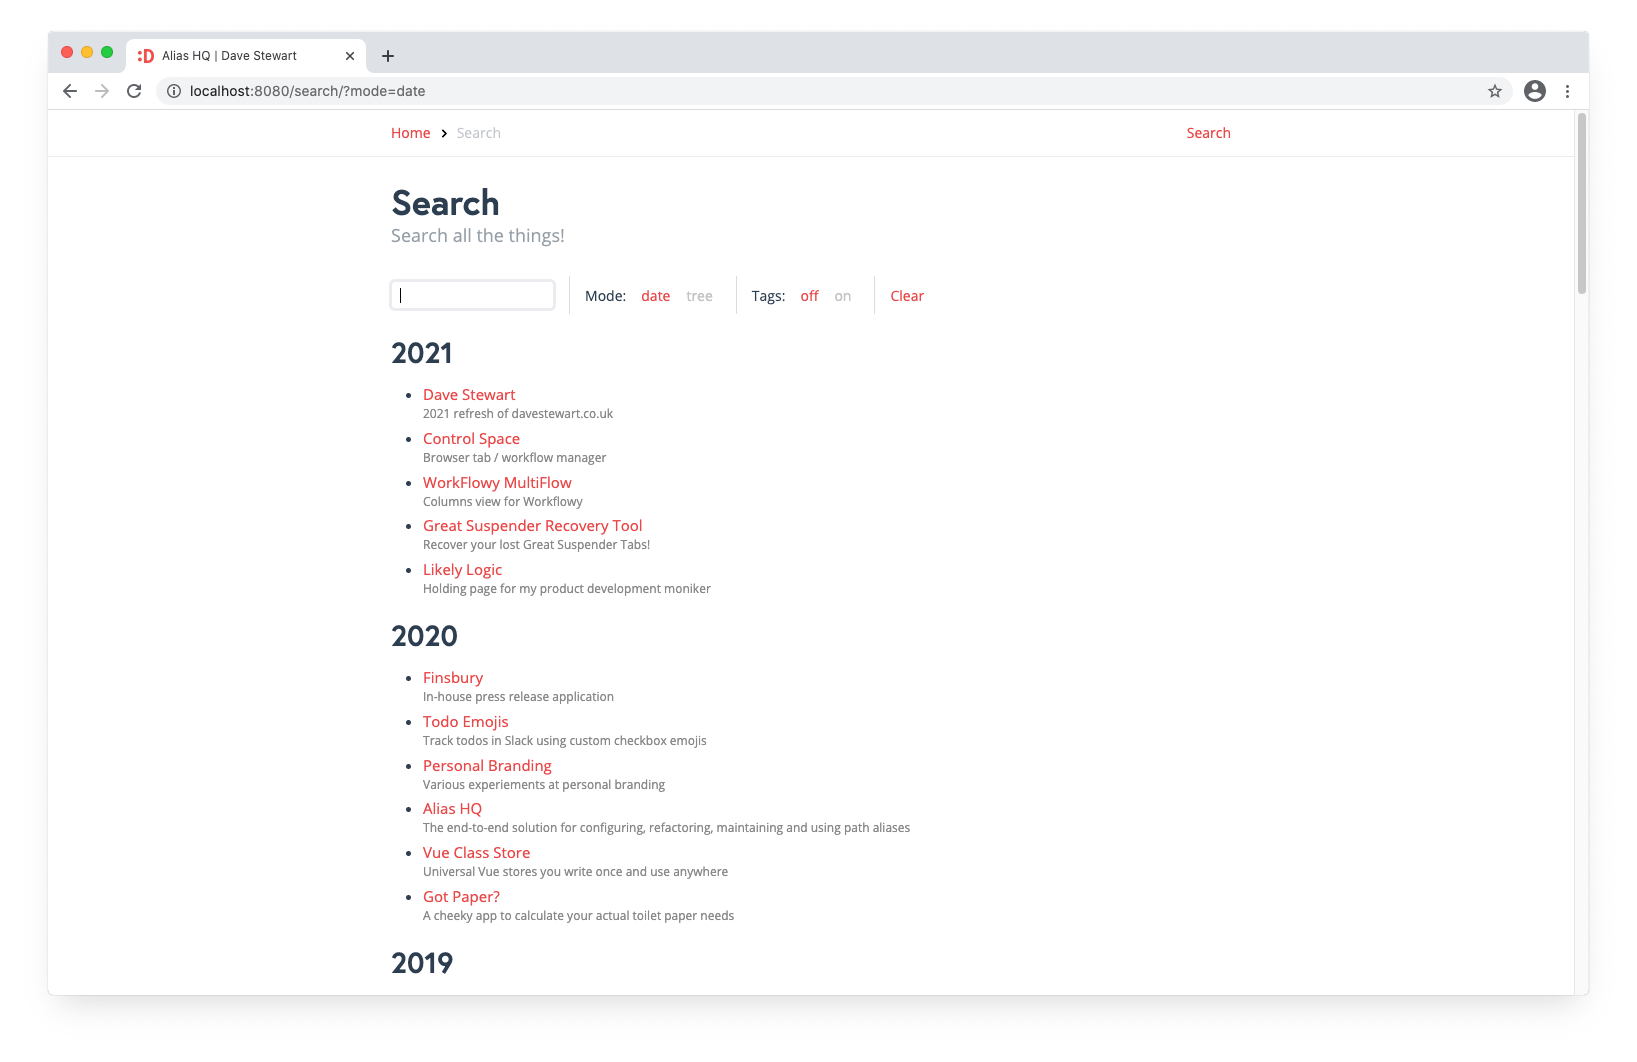
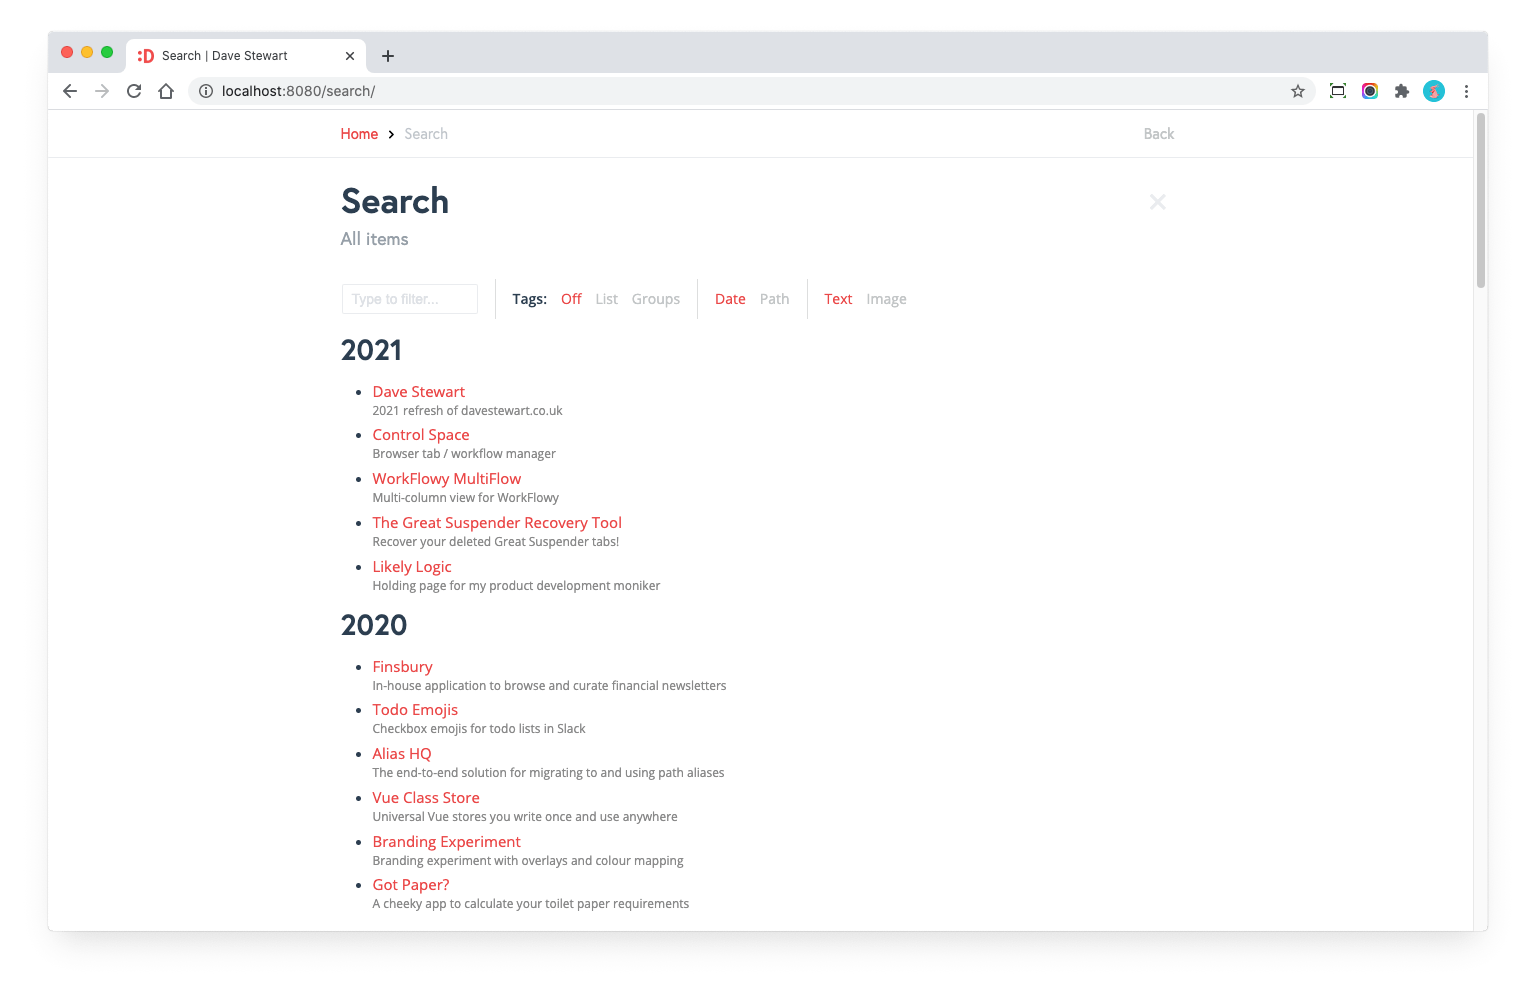
Update content

diff --git a/content/projects/open-source/state-machine/index.md b/content/projects/open-source/state-machine/index.md
@@ -5,6 +5,7 @@ tags:
   - library
   - javascript
   - state
+github: davestewart/javascript-state-machine
 media:
   thumbnail: ./images/state-machine-thumb.svg
   featured:
@@ -89,6 +90,6 @@ If I had the time and inclination to continue this project, the main aims would 
 
 ## Links
 
-- [statemachine.davestewart.io/](http://statemachine.davestewart.io/)
+- [statemachine.davestewart.io](http://statemachine.davestewart.io/)
 - [GitHub](https://github.com/davestewart/javascript-state-machine)
 

diff --git a/content/projects/personal/dave-stewart/index.md b/content/projects/personal/dave-stewart/index.md
@@ -15,11 +15,13 @@ media:
   thumbnail: ./images/thumbnail.jpg
   gallery:
   - ./images/home.png
-  - ./images/folder.png
-  - ./images/folder-preview.png
-  - ./images/page.png
+  - ./images/projects.png
+  - ./images/project.png
+  - ./images/preview.png
+  - ./images/text.png
   - ./images/search.png
-  - ./images/search-tags.png
+  - ./images/search-thumbnails.png
+  - ./images/search-filter.png
 ---
 
 # Dave Stewart

diff --git a/content/projects/personal/branding/index.md b/content/projects/personal/branding/index.md
@@ -2,8 +2,8 @@
 description: Branding experiment with overlays and colour mapping
 date: 2020-04-01
 tags:
-  - website
   - creative
+  - animation
 media:
   thumbnail: ./images/featured.png
   gallery:

diff --git a/content/projects/open-source/app-diary/index.md b/content/projects/open-source/app-diary/index.md
@@ -9,6 +9,7 @@ tags:
   - creative
   - library
   - rapid-build
+github: davestewart/app-diary
 media:
   thumbnail: ./images/app-diary-thumbnail-02.png
   featured: ./images/app-diary-featured.png

diff --git a/content/projects/open-source/axios-actions/index.md b/content/projects/open-source/axios-actions/index.md
@@ -5,6 +5,7 @@ tags:
   - library
   - javascript
   - state
+github: davestewart/axios-actions
 media:
   thumbnail: ./images/axios-actions.svg
   featured: ./images/axios-actions.svg

diff --git a/content/projects/open-source/vue-class-store/index.md b/content/projects/open-source/vue-class-store/index.md
@@ -9,6 +9,7 @@ tags:
   - vue
   - state
   - creative
+github: davestewart/vue-class-store
 media:
   thumbnail: ./images/vue-class-store.svg
   featured: ./images/vue-class-store.svg

diff --git a/content/projects/open-source/alias-hq/index.md b/content/projects/open-source/alias-hq/index.md
@@ -6,6 +6,7 @@ tags:
   - tools
   - node
   - creative
+github: davestewart/alias-hq
 media:
   thumbnail: ./images/alias-thumbnail.png
   featured: ./images/alias-gradient.gif

diff --git a/content/projects/open-source/vuex-pathify/index.md b/content/projects/open-source/vuex-pathify/index.md
@@ -8,6 +8,7 @@ tags:
   - vue
   - state
   - creative
+github: davestewart/vuex-pathify
 media:
   thumbnail: ./images/vuex-pathify.svg
   featured: ./images/vuex-pathify.svg

diff --git a/content/products/todo-emojis/index.md b/content/products/todo-emojis/index.md
@@ -5,6 +5,7 @@ tags:
   - creative
   - productivity
   - rapid-build
+github: davestewart/todo-emojis
 media:
   thumbnail: ./images/todo-emojis-logo.svg
   gallery:

diff --git a/content/products/great-suspender-recovery-tool/index.md b/content/products/great-suspender-recovery-tool/index.md
@@ -8,6 +8,7 @@ tags:
   - rapid-build
   - vue
   - ui
+github: davestewart/great-suspender-recovery-tool
 media:
   thumbnail: ./images/tgsrt-thumb.png
   gallery:

diff --git a/content/products/got-paper/index.md b/content/products/got-paper/index.md
@@ -12,6 +12,7 @@ tags:
   - rapid-build
   - creative
   - ui
+github: davestewart/got-paper
 media:
   thumbnail: ./images/thumb.png
   gallery:
